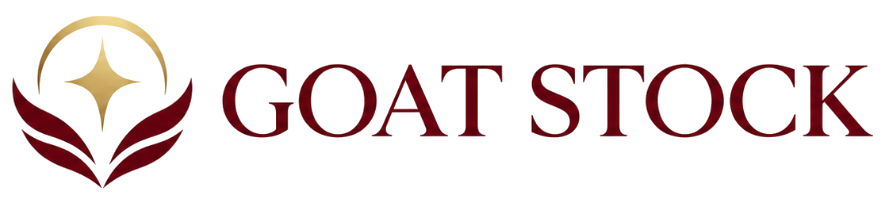
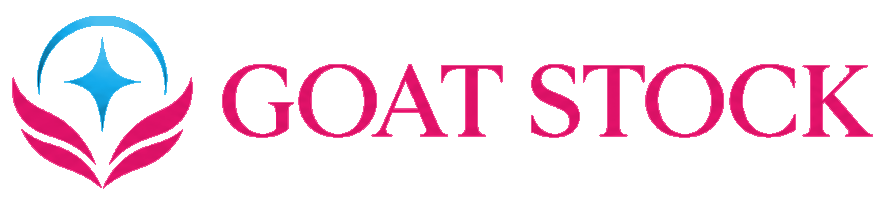
Switch palette to pink + sky blue on white, modern sans numerals, recolor emblem
Claude-Session: https://claude.ai/code/session_01E32rGDtjFD6wTMJLuACF7G

Changed region(s): [[0.0, 0.0594, 1.0, 0.9208]]

diff --git a/index.html b/index.html
@@ -14,8 +14,8 @@
 <link rel="stylesheet" href="https://cdn.jsdelivr.net/gh/orioncactus/pretendard@v1.3.9/dist/web/variable/pretendardvariable-dynamic-subset.min.css">
 <link rel="stylesheet" href="https://fonts.googleapis.com/css2?family=Cormorant+Garamond:wght@500;600;700&family=Inter:wght@400;500;600;700&display=swap">
 <style>
-body{--bg:#FFFFFF;--card:#FBF7F4;--ink:#1B0F12;--sub:#6B5E62;--mute:#8E8186;--line:#E6D9D0;--soft:#F4EDE7;--up:#D7263D;--upA:#FBE8EB;--dn:#2563D9;--dnA:#E7EEFB;--acc:#6B0F2B;--gold:#D4B483;--goldD:#A8834A;--warnBg:#FBF4E8;--warnBd:#E9D5AE;--warnInk:#6B4A1F;--nav:#FFFFFF;--navOff:#A79BA0;--ma5:#D4B483;--ma20:#6B0F2B;--ma60:#8E8186;--buy:#1E9E5A;--sell:#E0861E;--shadow:0 6px 20px rgba(107,15,43,.08)}
-body[data-mt=dark]{--bg:#0E070A;--card:#1A0F14;--ink:#F6F2EE;--sub:#B7A9AD;--mute:#8E7F84;--line:#3A2730;--soft:#241820;--up:#FF5A6E;--upA:rgba(255,90,110,.14);--dn:#4C8DFF;--dnA:rgba(76,141,255,.14);--acc:#B0294D;--gold:#D8B782;--goldD:#D8B782;--warnBg:rgba(216,183,130,.08);--warnBd:rgba(216,183,130,.35);--warnInk:#E6CFA6;--nav:#140B10;--navOff:#6E5E64;--ma5:#D8B782;--ma20:#C2385C;--ma60:#8E7F84;--buy:#2FD27A;--sell:#FFA53A;--shadow:0 6px 20px rgba(0,0,0,.35)}
+body{--bg:#FFFFFF;--card:#FFFFFF;--ink:#1F2433;--sub:#5F6B7D;--mute:#8A94A6;--line:#E8EDF3;--soft:#F5F8FC;--up:#E5304F;--upA:#FDE9EE;--dn:#2B6FE0;--dnA:#E8F1FD;--acc:#F0508C;--gold:#38B6F2;--goldD:#1E9BD7;--warnBg:#F2F9FE;--warnBd:#BFE4F8;--warnInk:#1F5E80;--nav:#FFFFFF;--navOff:#A3ADBD;--ma5:#38B6F2;--ma20:#F0508C;--ma60:#A3ADBD;--buy:#1E9E5A;--sell:#E0861E;--shadow:0 6px 20px rgba(240,80,140,.08)}
+body[data-mt=dark]{--bg:#0B0E14;--card:#141925;--ink:#F2F5FA;--sub:#A5AFC0;--mute:#7C8698;--line:#252C3B;--soft:#1B2130;--up:#FF5A72;--upA:rgba(255,90,114,.14);--dn:#4C8DFF;--dnA:rgba(76,141,255,.14);--acc:#FF6FA3;--gold:#5CC6F5;--goldD:#5CC6F5;--warnBg:rgba(92,198,245,.08);--warnBd:rgba(92,198,245,.35);--warnInk:#BFE6FA;--nav:#10141D;--navOff:#667085;--ma5:#5CC6F5;--ma20:#FF6FA3;--ma60:#7C8698;--buy:#2FD27A;--sell:#FFA53A;--shadow:0 6px 20px rgba(0,0,0,.35)}
 *{box-sizing:border-box}
 html{background:#FFFFFF;padding-top:env(safe-area-inset-top,0px)}
 body{margin:0;background:var(--bg);color:var(--ink);font-family:"Pretendard Variable",Pretendard,"Apple SD Gothic Neo","Malgun Gothic",sans-serif;letter-spacing:-.01em;-webkit-text-size-adjust:100%;padding-bottom:calc(74px + env(safe-area-inset-bottom,0px))}
@@ -29,7 +29,7 @@ header b{font-size:17px;letter-spacing:-.02em;white-space:nowrap}
 .wrap{max-width:620px;margin:0 auto;display:flex;flex-direction:column;gap:16px;padding-block:6px 16px;padding-left:max(16px,env(safe-area-inset-left,0px));padding-right:max(16px,env(safe-area-inset-right,0px))}
 .card{background:var(--card);border-radius:16px;padding:20px;min-width:0;box-shadow:var(--shadow);border:1px solid var(--line)}
 .card h3{margin:0 0 12px;font-size:16px;font-weight:700;color:var(--ink);letter-spacing:-.02em}
-.big{font-family:"Cormorant Garamond",Georgia,serif;font-size:40px;font-weight:700;letter-spacing:0;line-height:1.05;font-variant-numeric:lining-nums tabular-nums;color:var(--ink)}
+.big{font-family:Inter,"Pretendard Variable",sans-serif;font-size:40px;font-weight:700;letter-spacing:0;line-height:1.05;font-variant-numeric:lining-nums tabular-nums;color:var(--ink)}
 .up{color:var(--up)}.dn{color:var(--dn)}.mu{color:var(--mute)}
 .bar{height:8px;border-radius:99px;background:var(--line);overflow:hidden}.bar i{display:block;height:8px;border-radius:99px;background:var(--dn)}
 .dist{display:flex;height:8px;border-radius:99px;overflow:hidden;gap:2px;margin:6px 0}
@@ -46,18 +46,18 @@ header b{font-size:17px;letter-spacing:-.02em;white-space:nowrap}
 .seg button.on{background:var(--acc);color:#fff;font-weight:700}
 .seg button:disabled{opacity:.45;cursor:not-allowed}
 .grid3{display:grid;grid-template-columns:repeat(3,minmax(0,1fr));gap:8px}
-.cell{background:var(--soft);border-radius:12px;padding:12px;align-items:center;display:flex;flex-direction:column;gap:2px;min-width:0}.cell span{font-size:12px;color:var(--mute)}.cell b{font-family:"Cormorant Garamond",Georgia,serif;font-size:22px;font-weight:700;font-variant-numeric:lining-nums tabular-nums}
+.cell{background:var(--soft);border-radius:12px;padding:12px;align-items:center;display:flex;flex-direction:column;gap:2px;min-width:0}.cell span{font-size:12px;color:var(--mute)}.cell b{font-family:Inter,"Pretendard Variable",sans-serif;font-size:22px;font-weight:700;font-variant-numeric:lining-nums tabular-nums}
 .mrow{display:flex;align-items:center;padding:9px 0;border-top:1px solid var(--line);font-size:15px;gap:8px}.mrow:first-of-type{border-top:0}
 .mrow>span:first-child{min-width:0;overflow:hidden;text-overflow:ellipsis;white-space:nowrap}
 .mrow .v{margin-left:auto;font-variant-numeric:tabular-nums;font-weight:600}.mrow .c{min-width:70px;text-align:right;font-weight:600;font-variant-numeric:tabular-nums}
 .warnbox{background:var(--warnBg);border:1px solid var(--warnBd);border-radius:14px;padding:12px 14px;color:var(--warnInk);font-size:13px;display:flex;flex-direction:column;gap:6px;line-height:1.5}
-.grade{flex:none;min-width:108px;border-radius:14px 14px 30px 30px;padding:12px 14px 14px;display:flex;flex-direction:column;align-items:center;justify-content:center;gap:2px;background:linear-gradient(180deg,#8A1638,var(--acc));color:#fff;border:2px solid var(--gold);box-shadow:var(--shadow)}
-.grade b{font-size:15px;font-weight:600;letter-spacing:-.01em;line-height:1.2;opacity:.95}.grade span{font-family:"Cormorant Garamond",Georgia,serif;font-size:28px;font-weight:700;line-height:1;color:var(--gold)}
-.grade.w{background:linear-gradient(180deg,#2D5FD0,#1F3F8F);border-color:var(--gold)}.grade.n{background:var(--card);color:var(--ink);border-color:var(--gold)}.grade.n span{color:var(--goldD)}
-.hero{background:linear-gradient(135deg,#7A1432 0%,#5A0C24 100%);border:1px solid #8A2A45;color:#fff}
+.grade{flex:none;min-width:108px;border-radius:14px 14px 30px 30px;padding:12px 14px 14px;display:flex;flex-direction:column;align-items:center;justify-content:center;gap:2px;background:linear-gradient(160deg,#F0508C,#FF8DB6);color:#fff;border:2px solid #fff;outline:2px solid var(--gold);box-shadow:var(--shadow)}
+.grade b{font-size:15px;font-weight:600;letter-spacing:-.01em;line-height:1.2;opacity:.95}.grade span{font-family:Inter,"Pretendard Variable",sans-serif;font-size:28px;font-weight:700;line-height:1;color:#fff}
+.grade.w{background:linear-gradient(160deg,#2B8FE0,#5CC6F5);outline-color:var(--acc)}.grade.n{background:var(--soft);color:var(--ink);border-color:var(--line)}.grade.n span{color:var(--goldD)}
+.hero{background:linear-gradient(135deg,#F0508C 0%,#38B6F2 100%);border:0;color:#fff}
 .hero h3{color:rgba(255,255,255,.8);font-weight:500;font-size:13px}.hero .hstate{color:#fff;font-family:"Pretendard Variable",Pretendard,sans-serif;font-size:34px;letter-spacing:-.03em}
-.hero .mu{color:rgba(255,255,255,.75)}.hero .hcash{font-family:"Cormorant Garamond",Georgia,serif;font-size:28px;color:var(--gold)}
-.hero .bar{background:rgba(255,255,255,.18)}.hero .bar i{background:var(--gold)}.hero div[style*="color:var(--sub)"],.hero div[style*="color:var(--mute)"]{color:rgba(255,255,255,.82)!important}
+.hero .mu{color:rgba(255,255,255,.75)}.hero .hcash{font-family:Inter,"Pretendard Variable",sans-serif;font-size:28px;color:#fff}
+.hero .bar{background:rgba(255,255,255,.18)}.hero .bar i{background:#fff}.hero div[style*="color:var(--sub)"],.hero div[style*="color:var(--mute)"]{color:rgba(255,255,255,.82)!important}
 .cell.tgt{background:var(--acc);color:#fff}.cell.tgt span{color:rgba(255,255,255,.8)}.cell.tgt b{color:#fff!important}
 .chip{display:inline-block;font-size:13px;font-weight:700;border-radius:8px;padding:6px 10px;background:var(--upA);color:var(--up)}
 .chip.w{background:var(--dnA);color:var(--dn)}.chip.n{background:var(--soft);color:var(--sub)}
@@ -73,7 +73,7 @@ table{width:100%;border-collapse:collapse;font-size:13px;font-variant-numeric:ta
 nav{position:fixed;left:0;right:0;bottom:0;z-index:9;background:var(--nav);border-top:1px solid var(--line);display:grid;grid-template-columns:repeat(5,minmax(0,1fr));padding:6px max(0px,env(safe-area-inset-right,0px)) calc(8px + env(safe-area-inset-bottom,0px)) max(0px,env(safe-area-inset-left,0px))}
 nav button{border:0;background:transparent;display:flex;flex-direction:column;align-items:center;gap:3px;padding:6px 0;color:var(--navOff);font-size:11px;cursor:pointer;min-height:50px}
 nav button.on{color:var(--acc);font-weight:700;box-shadow:inset 0 -3px 0 var(--acc)}
-body[data-mt=dark] nav button.on{color:var(--gold);box-shadow:inset 0 -3px 0 var(--gold)}
+body[data-mt=dark] nav button.on{color:var(--acc);box-shadow:inset 0 -3px 0 var(--acc)}
 .empty{padding:18px 0;text-align:center;color:var(--mute);font-size:14px;line-height:1.6}
 svg text{fill:var(--mute)}
 .lg{display:flex;gap:12px;font-size:11px;color:var(--mute);flex-wrap:wrap}.lg i{display:inline-block;width:10px;height:3px;border-radius:2px;margin-right:4px;vertical-align:middle}
@@ -81,7 +81,7 @@ button:focus-visible,input:focus-visible,a:focus-visible{outline:2px solid var(-
 </style>
 </head>
 <body>
-<header><img src="logo-t.png" alt="" width="30" height="30" style="flex:none;object-fit:contain"><b style="font-family:'Cormorant Garamond',Georgia,serif;font-size:21px;font-weight:700;letter-spacing:.04em;color:var(--acc)">GOAT STOCK</b><span class="badge" id="badge">…</span>
+<header><img src="logo-t.png" alt="" width="30" height="30" style="flex:none;object-fit:contain"><b style="font-family:Inter,sans-serif;font-size:20px;font-weight:800;letter-spacing:-.01em;color:var(--acc)">GOAT STOCK</b><span class="badge" id="badge">…</span>
 <button class="pill" id="installBtn" hidden onclick="installApp()">앱 설치</button>
 <button class="iconbtn" onclick="go('find')" aria-label="종목 검색"><svg width="18" height="18" viewBox="0 0 24 24" fill="none" stroke="currentColor" stroke-width="2" aria-hidden="true"><circle cx="11" cy="11" r="7"/><path d="M20 20l-4-4"/></svg></button>
 <button class="iconbtn" id="themeBtn" onclick="toggleTheme()" aria-label="화면 밝기 바꾸기"></button></header>

diff --git a/sw.js b/sw.js
@@ -1,4 +1,4 @@
-const C="goat-v20261111p";
+const C="goat-v20261111q";
 self.addEventListener("install",e=>{e.waitUntil(caches.open(C).then(c=>c.addAll(["./","index.html","manifest.json","icon-192.png","icon-512.png","logo.png"])));self.skipWaiting()});
 self.addEventListener("activate",e=>{e.waitUntil(caches.keys().then(k=>Promise.all(k.filter(x=>x!==C).map(x=>caches.delete(x)))));self.clients.claim()});
 self.addEventListener("fetch",e=>{if(e.request.method!=="GET")return;e.respondWith(fetch(e.request).then(r=>{const cp=r.clone();caches.open(C).then(c=>c.put(e.request,cp)).catch(()=>{});return r}).catch(()=>caches.match(e.request)))});
